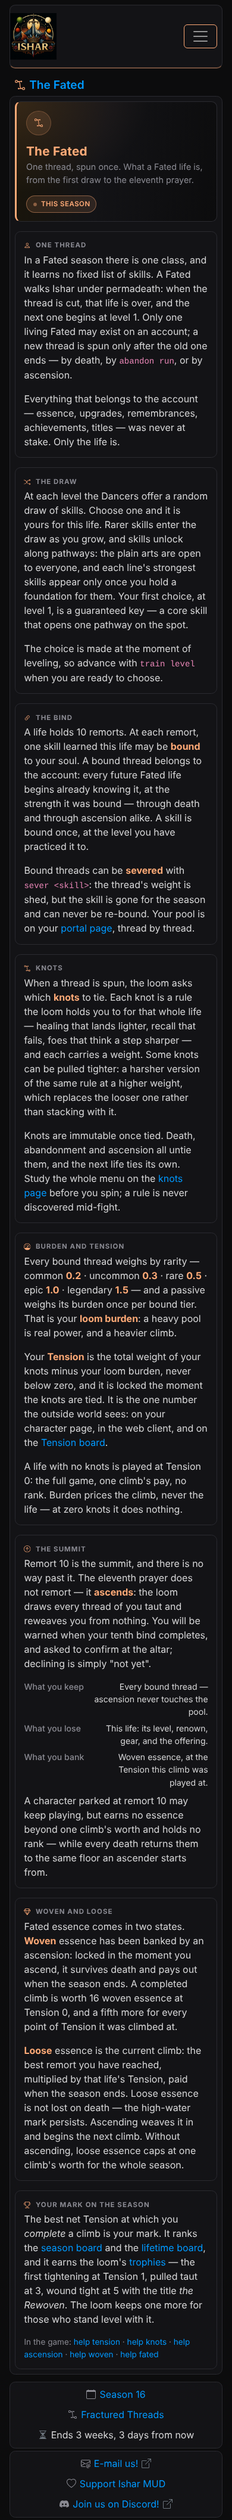
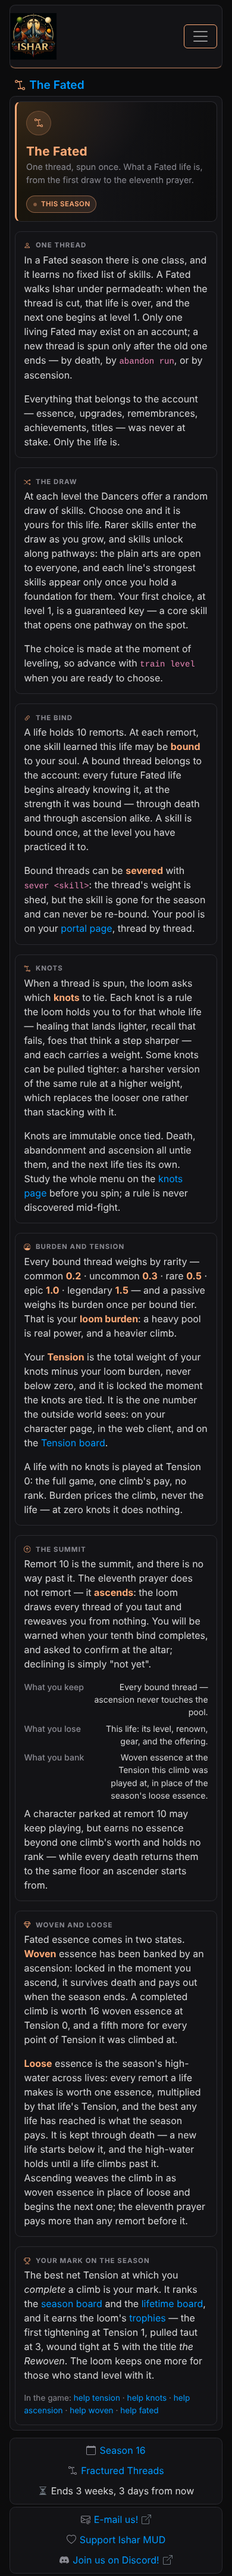
Docs: essence ADR, catalog entries, and refreshed Tension proofs
Records the essence decisions (including the deliberate departure from
reading game columns raw) and catalogs the new partial and row modifier.
The fated-tension harness now carries #1990's real case and a
negative-ascension case, its stale checks are fixed, and it no longer
depends on a dead session path or a pinned Chromium build. Screenshots are
regenerated to match.

Relates to isharmud/ishar-mud#1990

Claude-Session: https://claude.ai/code/session_01NMLAmxyKYXQpHwQ935j89L

Changed region(s): [[0.0615, 0.0, 0.8923, 0.9991], [0.8308, 0.0, 0.8923, 0.0312]]

diff --git a/docs/design/fated-tension/essence_shots.js b/docs/design/fated-tension/essence_shots.js
@@ -1,0 +1,42 @@
+const { chromium } = require('playwright');
+const OUT = __dirname + '/';
+const BASE = 'http://127.0.0.1:8765';
+const pages = [
+  ['corwen', '/player/Corwen/?as=Maren'],
+  ['brannoc', '/player/Brannoc/?as=Isolde'],
+  ['tam', '/player/Tam/?as=Boric'],
+  ['portal_maren', '/portal/?as=Maren'],
+];
+(async () => {
+  const browser = await chromium.launch();
+  for (const [w, label, scale] of [[390, 'phone', 2], [1280, 'desktop', 1]]) {
+    const ctx = await browser.newContext({ viewport: { width: w, height: 900 }, deviceScaleFactor: scale });
+    for (const [name, path] of pages) {
+      const page = await ctx.newPage();
+      const errors = [];
+      page.on('pageerror', e => errors.push(e.message));
+      page.on('console', m => { if (m.type() === 'error') errors.push(m.text()); });
+      await page.goto(BASE + path, { waitUntil: 'networkidle' });
+      const overflow = await page.evaluate(() => document.documentElement.scrollWidth > document.documentElement.clientWidth);
+      const panel = page.locator('.ac-panel', { has: page.locator('#season-essence') });
+      await panel.screenshot({ path: OUT + 'essence_' + name + '_' + label + '.png' });
+      console.log(name, label, 'overflow=' + overflow, 'errors=' + (errors.join(' | ') || 'none'));
+      await page.close();
+    }
+    const page = await ctx.newPage();
+    const errors = [];
+    page.on('pageerror', e => errors.push(e.message));
+    await page.goto(BASE + '/connect/?demo=1', { waitUntil: 'networkidle' });
+    await page.waitForTimeout(1200);
+    await page.locator('.v-tension').first().click();
+    await page.waitForTimeout(600);
+    const lines = await page.evaluate(() => Array.from(document.querySelectorAll('.tn-line')).map(n => n.textContent));
+    const tiles = await page.evaluate(() => Array.from(document.querySelectorAll('.season-tile')).map(n => n.textContent.trim()));
+    console.log('hud', label, JSON.stringify(lines), JSON.stringify(tiles), 'errors=' + (errors.join(' | ') || 'none'));
+    await page.evaluate(() => { const n = Array.from(document.querySelectorAll('.tn-h')).find(h => /This season/i.test(h.textContent)); if (n) n.scrollIntoView(); });
+    await page.waitForTimeout(300);
+    await page.screenshot({ path: OUT + 'hud_essence_' + label + '.png' });
+    await ctx.close();
+  }
+  await browser.close();
+})();

diff --git a/docs/design/fated-tension/shots.js b/docs/design/fated-tension/shots.js
@@ -1,5 +1,5 @@
-const { chromium } = require('/opt/node-tools/node_modules/playwright');
-const OUT = '/tmp/claude-0/-home-user-ishar-web/f631e60d-2c23-527e-b7f0-18ab25133956/scratchpad/shots/';
+const { chromium } = require('playwright');
+const OUT = __dirname + '/';
 const BASE = 'http://127.0.0.1:8765';
 const pages = [
   ['player_aelwyn', '/player/Aelwyn/?as=Tyrell', '#tension'],
@@ -14,7 +14,7 @@ const pages = [
   ['help_tension', '/help/Tension/', null],
 ];
 (async () => {
-  const browser = await chromium.launch({ executablePath: '/opt/pw-browsers/chromium-1194/chrome-linux/chrome' });
+  const browser = await chromium.launch();
   for (const [w, label] of [[390, 'phone'], [1280, 'desktop']]) {
     const ctx = await browser.newContext({ viewport: { width: w, height: 900 }, deviceScaleFactor: 1 });
     for (const [name, path, anchor] of pages) {

diff --git a/docs/design/fated-tension/shots2.js b/docs/design/fated-tension/shots2.js
@@ -1,5 +1,5 @@
-const { chromium } = require('/opt/node-tools/node_modules/playwright');
-const OUT = '/tmp/claude-0/-home-user-ishar-web/f631e60d-2c23-527e-b7f0-18ab25133956/scratchpad/shots/';
+const { chromium } = require('playwright');
+const OUT = __dirname + '/';
 const BASE = 'http://127.0.0.1:8765';
 const pages = [
   ['fated', '/fated/', null],
@@ -8,7 +8,7 @@ const pages = [
   ['portal_loom', '/portal/?as=Tyrell', '#threads'],
 ];
 (async () => {
-  const browser = await chromium.launch({ executablePath: '/opt/pw-browsers/chromium-1194/chrome-linux/chrome' });
+  const browser = await chromium.launch();
   for (const [w, label] of [[390, 'phone'], [1280, 'desktop']]) {
     const ctx = await browser.newContext({ viewport: { width: w, height: 900 } });
     for (const [name, path, anchor] of pages) {

diff --git a/docs/design/fated-tension/hudshot.js b/docs/design/fated-tension/hudshot.js
@@ -1,7 +1,7 @@
-const { chromium } = require('/opt/node-tools/node_modules/playwright');
-const OUT = '/tmp/claude-0/-home-user-ishar-web/f631e60d-2c23-527e-b7f0-18ab25133956/scratchpad/shots/';
+const { chromium } = require('playwright');
+const OUT = __dirname + '/';
 (async () => {
-  const browser = await chromium.launch({ executablePath: '/opt/pw-browsers/chromium-1194/chrome-linux/chrome' });
+  const browser = await chromium.launch();
   for (const [w, label] of [[390, 'phone'], [1280, 'desktop']]) {
     const ctx = await browser.newContext({ viewport: { width: w, height: 900 } });
     const page = await ctx.newPage();

diff --git a/docs/design/fated-tension/render.py b/docs/design/fated-tension/render.py
@@ -44,10 +44,11 @@ html, _ = get(c, "/player/Aelwyn/", "player_aelwyn")
 check("player_aelwyn", html,
       "tension 4",                       # hero pill: locked value is authoritative
       "4 Tension", "3 of 10 Remorts",
-      "28 Banks on ascension",           # bank(4) = 16 * 180 / 100 = 28
-      "Locked at 4 when this thread was spun — knots 3.5, loom burden now 0.5",          # Weave Watches 2.0 + Exposed 1.5; Frostbite rare 0.5
+            "Locked at 4 when this thread was spun — knots 3.5, loom burden now 0.5",          # Weave Watches 2.0 + Exposed 1.5; Frostbite rare 0.5
       "The Weave Watches", "Exposed", "2.0", "1.5",
       "28 Woven", "2 Loose", "4 Best this season", "4 Lifetime best",
+      "Ascending at Tension 4 banks 28 woven essence",   # bank(4) = 16 * 180 / 100
+      "33 This season",                  # 28 + 2 + 2 + 1, no milestones claimed
       "Frostbite", "rare", "level 50", "0.5",
       "Bless", "severed", "burden 0.5",
       "Help: Tension · Knots · Ascension · Woven")
@@ -93,7 +94,7 @@ check("player_tam", html, "between lives")
 _, r = get(c, "/player/Wren/", "player_wren_denied", status=404)
 cst = Client(); cst.force_login(staff)
 html, _ = get(cst, "/player/Wren/", "player_wren_staff")
-check("player_wren_staff", html, "stands at the summit — the eleventh prayer ascends", "7 Tension", "10 of 10", "38 Banks on ascension")   # bank(7) = 16 * 240 / 100
+check("player_wren_staff", html, "stands at the summit — the eleventh prayer ascends", "7 Tension", "10 of 10", "Ascending at Tension 7 banks 38 woven essence")   # bank(7) = 16 * 240 / 100
 
 # Help mirror: the game's helptab served through the site's parser.
 for topic in ("Tension", "Knots", "Ascension", "Woven"):
@@ -101,7 +102,7 @@ for topic in ("Tension", "Knots", "Ascension", "Woven"):
     check(f"help_{topic}", html, topic)
 check("help_Tension", open(os.path.join(OUT, "help_tension.html")).read(), "Tension is the measure of how tightly the weave is drawn against you")
 check("help_Ascension", open(os.path.join(OUT, "help_ascension.html")).read(), "the eleventh prayer ascends")
-check("help_Woven", open(os.path.join(OUT, "help_woven.html")).read(), "Loose essence is not lost on death")
+check("help_Woven", open(os.path.join(OUT, "help_woven.html")).read(), "It is not lost on death")
 _, r = get(anon, "/help/Loose/", "help_loose", status=302)
 if r.status_code == 302 and "/help/Woven/" not in r["Location"]:
     failures.append(f"help_loose: redirected to {r['Location']}")
@@ -112,7 +113,7 @@ _, r = get(anon, "/help/Burden/", "help_burden", status=302)
 html, _ = get(anon, "/fated/", "fated_anon")
 check("fated_anon", html, "The Fated", "One thread", "The draw", "The bind", "Knots", "Burden and Tension",
       "common 0.2", "legendary 1.5", "16 woven essence at Tension 0", "The summit", "Woven and loose",
-      "Loose essence is not lost on death", "the Rewoven", "help tension", "this season",
+      "season's high-water across lives", "It is kept through death", "the Rewoven", "help tension", "this season",
       absent=("Loom's Equal", "heat", "meta-progression", "roguelite", "build"))
 html, _ = get(anon, "/fated/knots/", "knots_anon")
 check("knots_anon", html, "16 knots", "24.0 at the top", "The Weave Watches", "Stanched", "Unmended", "tighter",
@@ -133,4 +134,50 @@ html, _ = get(anon, "/help/", "help_index")
 check("help_nav", html, "The Fated")
 html, _ = get(c, "/portal/", "portal_burden")
 check("portal_burden", html, "Every bound thread weighs by rarity", "rare 0.5")
+
+# --- essence this season (ishar-mud#1990 / #2004) -----------------------
+def get_text(client, path, name):
+    html, _ = get(client, path, name)
+    return text(html)
+c = Client(); c.force_login(Account.objects.get(account_name="Maren"))
+t = get_text(c, "/player/Corwen/", "player_corwen")
+check("player_corwen", t,
+      "30 This season", "0 Woven", "21 Loose", "4 This life",
+      "set under the earlier rule", "Played a Fated this season +2",
+      "Holding woven or loose essence +1", "Engagement milestones claimed +6",
+      "Essence this season 30",
+      "Corwen stands at remort 1, Tension 19: 4 loose essence",
+      "below the season's high-water of 21",
+      "Each remort of this life is worth ×4.8 at Tension 19",
+      "It passes the high-water at remort 5, worth 24",
+      "5 24 24 passes 21 33", "4 19 21 holds 30", "10 the summit 48 48 57",
+      "Ascending at Tension 19 banks 76 woven essence",
+      "in place of the 48 loose", "from 57 to 85 (+28)",
+      absent=("at risk", "unbanked", "lost on death", "Banks on ascension"))
+t = get_text(c, "/portal/", "portal_maren")
+check("portal_maren", t, "30 This season", "Corwen stands at remort 1", "passes 21", "Earned this season" and "This season")
+
+c.force_login(Account.objects.get(account_name="Isolde"))
+t = get_text(c, "/player/Brannoc/", "player_brannoc")
+check("player_brannoc", t, "16 Woven", "48 Loose", "set at remort 10, Tension 19",
+      "Essence this season 67", "2 loose essence", "No remort of this life passes the high-water of 48",
+      "banks 16 woven essence", "from 67 to 35 (−32)", "an earlier life set is worth more",
+      absent=("earlier rule",))
+
+c.force_login(Account.objects.get(account_name="Boric"))
+t = get_text(c, "/player/Tam/", "player_tam")         # between lives
+check("player_tam", t, "Tam is between lives. The loose high-water holds", "5 Loose", "set under the earlier rule",
+      absent=("Ascending at",))
+t = get_text(c, "/player/Lanya/", "player_lanya")     # knots untied
+check("player_lanya", t, "the knots are not tied yet, so this life is reckoned at Tension 0")
+
+c.force_login(Account.objects.get(account_name="Tyrell"))
+t = get_text(c, "/player/Rook/", "player_rook")       # not Fated
+check("player_rook", t, absent=("Essence This Season",))
+t = get_text(c, "/portal/", "portal_tyrell")
+check("portal_tyrell", t, "Aelwyn stands at remort 3, Tension 4", "33 This season")
+for path, name in (("/fated/", "fated"), ("/season/", "season"), ("/connect/", "connect")):
+    t = get_text(c, path, name)
+check("fated", text(open(f"{OUT}/fated.html").read()), "season's high-water across lives", "in place of the season's loose essence")
 print("\n".join(failures) if failures else "ALL CHECKS PASSED")
+

diff --git a/docs/design/fated-tension/build_db.py b/docs/design/fated-tension/build_db.py
@@ -132,4 +132,17 @@ AchievementReward.objects.create(achievement=chal, reward_type=1, reward_value=1
 AchievementReward.objects.create(achievement=chal, reward_type=0, reward_value=10)
 AccountAchievement.objects.create(account=tyrell, achievement=tight, is_completed=1, completion_date=now - dt.timedelta(days=1), completed_by="Aelwyn")
 AccountAchievement.objects.create(account=selra, achievement=equal, is_completed=1, completion_date=now - dt.timedelta(days=1), completed_by="Wren")
+
+# ishar-mud#1990's real case: woven 0, loose 21 under the earlier rule, six
+# milestones claimed, the living character at remort 1, Tension 19.
+real = account(6, "Maren", season_woven_essence=0, season_loose_essence=21, season_loose_remorts=0, season_loose_tension=0, season_max_tension=0, max_tension=0)
+player(6, "Corwen", real, locked=19, mask=65, remorts=1)
+# A high-water set at Tension 19 by an earlier life; the life in hand is at 0.
+high = account(7, "Isolde", season_woven_essence=16, season_loose_essence=48, season_loose_remorts=10, season_loose_tension=19, season_max_tension=0, max_tension=0)
+player(7, "Brannoc", high, locked=0, mask=0, remorts=2)
+with connection.cursor() as c:
+    c.execute("CREATE TABLE accounts_engagement_rewards (account_engagement_reward_id integer primary key, account_id integer, season_id integer, milestone integer, track_xp_total integer, achieved_at text)")
+    for slot in range(6):
+        c.execute("INSERT INTO accounts_engagement_rewards (account_id, season_id, milestone) VALUES (6, 16, %s)", [slot])
+    c.execute("INSERT INTO accounts_engagement_rewards (account_id, season_id, milestone) VALUES (6, 15, 7)")
 print("knots:", TensionModifier.objects.count(), "achievements:", Achievement.objects.count())

diff --git a/docs/design/fated-tension/verify_settings.py b/docs/design/fated-tension/verify_settings.py
@@ -1,11 +1,14 @@
 """Verification-only settings: the real settings.py over sqlite, with the
 game's helptab from the ishar-mud clone. Never used in production."""
+import os
+import tempfile
+
 from settings import *  # noqa
 
 DATABASES = {
     "default": {
         "ENGINE": "django.db.backends.sqlite3",
-        "NAME": "/tmp/claude-0/-home-user-ishar-web/f631e60d-2c23-527e-b7f0-18ab25133956/scratchpad/verify.sqlite3",
+        "NAME": os.path.join(tempfile.gettempdir(), "ishar-verify.sqlite3"),
     }
 }
 ALLOWED_HOSTS = ["testserver", "localhost", "127.0.0.1"]

diff --git a/docs/design/decisions.md b/docs/design/decisions.md
@@ -2676,3 +2676,61 @@ Console itself. Specific calls:
 **Notes.** New component `.ac-track` (catalog updated). Verified against a
 local MariaDB with the game schema and the game's real queue drainer: save →
 queue row → game applies → page shows the staged track.
+
+## 2026-11-24 — Fated essence: one rules module, the stored high-water shown as-is, the life in hand priced
+
+**Problem.** Players reported the essence figure "not accurate once you die
+mid run and start again". The portal's "Earned this season" was
+`Account.seasonal_earned`: the pre-Fated formula `2 + r + ⌊r/5⌋·3` over the
+best of `remorts` / `player_stats.hardcore_remorts`. It had no Tension and
+ignored the account's stored woven and loose essence. After a restart the
+living character is worth far less than the season's stored high-water.
+ishar-mud#1990 / #2004 also changed the loose rule from
+`(r + ⌊r/5⌋·3)·m(T)` to `r·m(T)` and started recording the life that set the
+high-water (`accounts.season_loose_remorts` / `_tension`).
+
+**Decision.** A shared **Essence This Season** panel
+(`partials/season_essence.html`) on the Fated profile and the portal. It
+replaces `seasonal_earned`, which is deleted. Specific calls:
+
+1. **One rules module.** `apps/fated/essence.py` has no Django imports and
+   holds the three constants (slope 20, summit 10, bank base 16) and the
+   math. `tension.py`, the views and the HUD all read from it. The HUD gets
+   the constants through `json_script` on `/connect/`, not a JS copy; without
+   them it prices nothing. `apps/fated/tests.py` pins the #1990 tables
+   (`python -m unittest apps.fated.tests`, no database).
+2. **What pays is displayed, never recomputed.** Woven and loose are the
+   account's columns. The formulas only price the life in hand: what it
+   stands at now, each further remort (a table of this life / loose / season
+   per remort, with the first remort that passes the high-water marked), and
+   its ascension. The ascension note shows the season total before and after.
+   It turns warn when the change is negative, which happens when an earlier,
+   higher-Tension life set a high-water above this climb's bank.
+3. **The source is shown, or named as missing.** "Set at remort R, Tension
+   T", or "set under the earlier rule" when the game recorded none.
+4. **Engagement milestones are claim receipts, labelled as a lower bound.**
+   The game pays one essence per milestone *reached*, which it derives on read
+   and never stores. The site counts `accounts_engagement_rewards` for the
+   season and says that `season` in the game has the exact figure. The HUD
+   uses `Char.Season`'s `milestones_done`, which is exact.
+5. **The two new columns are modelled on `Account`.** This departs from the
+   2026-11-18 rule (read game columns raw and guarded) on purpose. A raw read
+   would leave the auth model permanently incomplete. In return, **the web
+   deploy must follow the game reboot that runs the
+   `loose_essence_source` migration**: `Account` loads on every logged-in
+   request, so shipping first fails every one of them.
+6. **Copy.** Loose essence is "the season's high-water across lives", kept
+   through death. It is never described as at risk, unbanked or lost. The
+   Loom panel now carries only best / lifetime best and the threads. The
+   Tension panel drops its bare "Banks on ascension" tile, because the
+   ascension note says what banking replaces.
+7. **Phones, site-wide.** `.ac-tiles` go two abreast below 576px (minimum
+   8rem, down from 9.5rem, which stacked every four-tile panel into one tall
+   column). `.ac-table` cells tighten there too, so a four-column table fits
+   with no sideways scroll.
+
+**Notes.** New: `partials/season_essence.html`, `.ac-table__row--mark`
+(catalog updated). Outside a Fated season the portal no longer shows a
+this-season figure: the normal enigma's per-class tally was never what
+`seasonal_earned` computed, and porting it is separate work. Verified with
+the sqlite harness in `fated-tension/` (fixture includes #1990's real case).

diff --git a/docs/design/fated-tension/README.md b/docs/design/fated-tension/README.md
@@ -6,20 +6,35 @@ every `managed = False` table from the models, runs the ishar-mud migrations
 that seed the knot menu and the Tension achievements, then inserts the
 fixture from the spec: an account with woven 28 / loose 2 / best 4 /
 lifetime 4, a Fated character locked at 4 with knots mask 65, Frostbite
-bound at 50 and a severed thread). `render.py` hits every page with the
+bound at 50 and a severed thread; plus ishar-mud#1990's real essence case and
+a high-water set by an earlier, higher-Tension life). `render.py` hits every page with the
 Django test client and checks the numbers the formulas predict;
 `shots*.js` take the 390px and 1280px screenshots with Playwright and
 report horizontal overflow and page errors. `verify_settings.py` and
-`autologin.py` are the harness-only settings (sqlite, migrations off, a
-`?as=<account>` login shim) — never production.
+`autologin.py` are the harness-only settings (sqlite in the system temp
+dir, migrations off, a `?as=<account>` login shim) — never production.
+`build_db.py` reads the ishar-mud clone at `/home/user/ishar-mud`. Serve the
+fixture for the screenshot scripts with
+`DJANGO_SETTINGS_MODULE=verify_settings PYTHONPATH=docs/design/fated-tension python manage.py runserver 127.0.0.1:8765`.
 
-Decisions: `docs/design/decisions.md` (2026-10-15, three entries).
+Decisions: `docs/design/decisions.md` (2026-10-15, three entries;
+2026-11-24 for essence).
 
-- `player_aelwyn_*.png` — the fixture character: Tension panel (4 · 3 of 10
-  · banks 28), the two tied knots, the Loom with Frostbite (rare, 0.5) and
+- `essence_corwen_*.png` — #1990's real case: 30 this season (0 woven, 21
+  loose set under the earlier rule, +2 +1, 6 milestones claimed); this life
+  at 4; passes the high-water at remort 5 (24); ascending at Tension 19
+  banks 76, 57 → 85.
+- `essence_brannoc_desktop.png` — a high-water of 48 set at remort 10,
+  Tension 19, and a life at Tension 0: no remort passes it, and ascending
+  would bank 16, 67 → 35 (the warn note).
+- `hud_essence_phone.png` — the Season overlay's loose-source, this-life
+  and ascension lines (demo data).
+- `player_aelwyn_*.png` — the fixture character: Tension panel (4 · 3 of 10),
+  the Essence This Season panel (ascension banks 28), the two tied knots,
+  the Loom with Frostbite (rare, 0.5) and
   the severed Bless.
 - `player_lanya_desktop.png` — the loom is asking for knots (locked −1).
-- `player_wren_phone.png` — at the summit, Tension 7, banks 38.
+- `player_wren_phone.png` — at the summit, Tension 7, ascension banks 38.
 - `portal_tyrell_phone.png` / `portal_loom_phone.png` — the portal: the
   lifetime-best pill, the Achievements card, the Loom with the burden scale.
 - `leaders_tension_*.png` / `leaders_lifetime_desktop.png` — accounts by best

diff --git a/docs/design/components.md b/docs/design/components.md
@@ -209,8 +209,9 @@ filter.
   </a>
 </div>
 ```
-Used: feedback dashboard. Status: **formalized** (supersedes the classic
-`display-6` card tile on admin surfaces).
+Below 576px the grid goes two abreast (minimum 8rem). Used: feedback
+dashboard. Status: **formalized** (supersedes the classic `display-6` card
+tile on admin surfaces).
 
 ### `.ac-bars` + `.ac-bar` — single-series magnitude bars
 Server-rendered horizontal bar rows: label · track+fill · value. One hue per
@@ -384,14 +385,29 @@ Used: the profile Tension panel (remorts of the summit). Status: **formalized.**
 
 ### Tension partials — `partials/tension_life.html`, `partials/tension_loom.html`
 The Fated surfaces (`apps/fated/templates/partials/`), built from tiles,
-rows and pills only. *Life*: Tension · remorts of 10 · banks on ascension
-tiles, the tied knots as rows (rule in `__meta`, weight pill in `__side`),
-copy states for untied / between lives / at the summit. *Loom*: woven /
-loose / best / lifetime tiles, then the bound threads as rows (rarity and
-level or tier in `__meta`, burden pill; `.ac-row--severed` strikes a cut
-thread through). Context comes from `apps/fated/context.py`; include with
+rows and pills only. *Life*: Tension · remorts of 10 tiles, the tied knots
+as rows (rule in `__meta`, weight pill in `__side`), copy states for untied /
+between lives / at the summit. *Loom*: best / lifetime best tiles, then the
+bound threads as rows (rarity and level or tier in `__meta`, burden pill;
+`.ac-row--severed` strikes a cut thread through). Essence is the essence
+partial's. Context comes from `apps/fated/context.py`; include with
 `life`/`between_lives` and `standing`/`loom`/`help_topics`. Used: player
 profile, portal. Status: **formalized** (decisions.md 2026-10-15).
+
+### Essence partial — `partials/season_essence.html`
+A Fated account's essence this season (context: `essence`, an
+`apps.fated.essence.SeasonEssence`, plus `between_lives` on the profile).
+Tiles: this season · woven · loose · this life. An `.ac-kv` breakdown
+(woven, loose with its source, the +2/+1 bonuses, milestones claimed, the
+total). Then **This Life**: what the life stands at, a plain `.ac-note` when
+it is below the high-water, the per-remort projection as an `.ac-table`
+(first passing row `--mark`ed), and an ascension `.ac-note` (`--ok`, or
+`--warn` when ascending would lower the total). Used: player profile,
+portal. Status: **formalized** (decisions.md 2026-11-24).
+
+### `.ac-table__row--mark` — the row to find first
+Amber wash and amber text on one table row, e.g. the remort that passes a
+high-water. One per table. Status: **formalized.**
 
 ### `.ac-row--tied` / `.ac-row--severed` — Fated row states
 `--tied` (ok wash, ok icon, no strike-through) marks a knot the viewer's own
